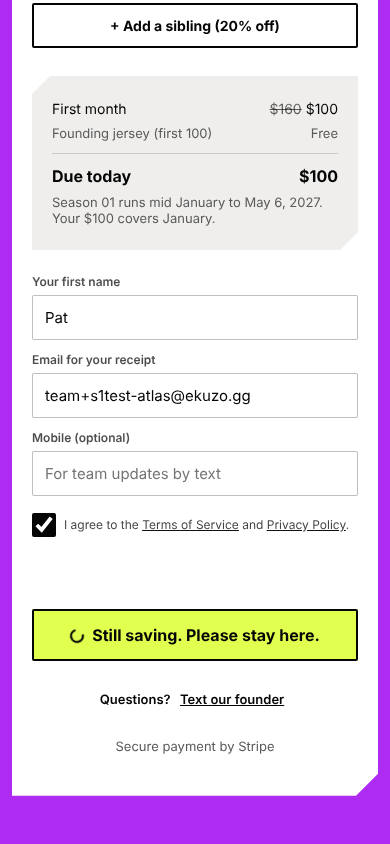
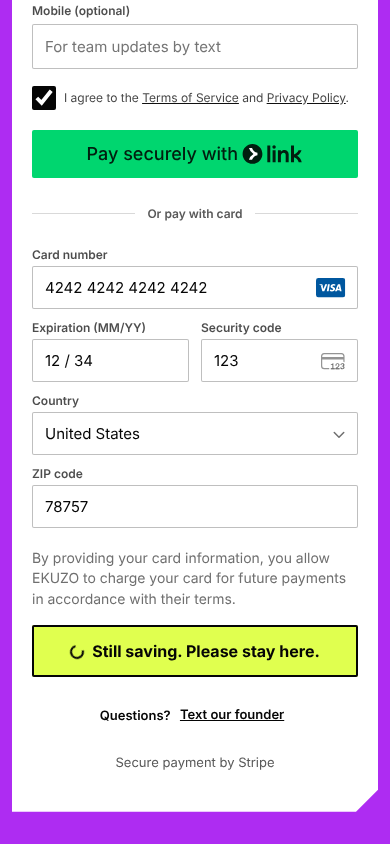
Season 01 analytics: calm in-progress note, honest copy, 3 s hold, age mask
Parent/Steward review (04-parent-steward.md) findings 1, 2, 4, 5:
- In-progress lines render in a stone .note box (#payNote) and are announced
  through the polite #liveErr status region, not the red #formErr alert; the
  button stays busy and disabled until the redirect.
- Copy, one constant each: IN_PROGRESS_MSG "Your payment is on its way.
  Taking you to your confirmation." only on a real 409 in_progress;
  CHECKING_MSG "Checking on your payment. Taking you to your confirmation."
  for the ambiguous case (confirmed flag, then a non-409 failure or network
  error); IN_PROGRESS_OTHER_MSG unchanged.
- WELCOME_HOLD_MS 3000 before location.replace (was 1.5 s).
- data-clarity-mask on the kid age select.
- Tests updated (constants, polite region, 3 s hold, mask, real pay() runs);
  screenshots recaptured with the real Stripe card field and Link row.
test:s1 337/337, tsc 0.

Claude-Session: https://claude.ai/code/session_01Gqf3jkMuwXDmn6TiTtEtBp

diff --git a/lib/season1/__tests__/signupCommit.test.ts b/lib/season1/__tests__/signupCommit.test.ts
@@ -31,10 +31,11 @@ describe("sign-up commit answers (F15, C2)", () => {
     assert.match(payFn, /if\(nx==='retry'\)\{retried=true;await new Promise\(function\(r\)\{setTimeout\(r,1500\)\}\);continue\}/);
     assert.doesNotMatch(payFn.slice(payFn.indexOf("for(;;){"), payFn.indexOf("if(nx==='retry')")), /attemptId=/, "the body keeps its attemptId");
   });
-  it("after confirmPayment was reached on this attempt, any failure goes to the confirmation (never 'not charged')", () => {
+  it("after confirmPayment was reached on this attempt, any other failure checks on it at the confirmation (never 'not charged')", () => {
     for (const [st, e] of [[500, "server"], [503, "try_again"], [429, "rate_limited"], [409, "closed"], [409, "price_changed"], [503, "attempt_busy"], [0, ""]] as const)
-      assert.equal(commitNext(st, e, true, false), "welcome", `${st} ${e}`);
-    assert.match(payFn, /\}catch\(err\)\{\n  if\(wasConfirmed\(\)\)\{toWelcome\(\);return\}/, "network errors too");
+      assert.equal(commitNext(st, e, true, false), "check", `${st} ${e}`);
+    assert.match(payFn, /if\(nx==='welcome'\)\{toWelcome\(IN_PROGRESS_MSG\);return\}\n    if\(nx==='check'\)\{toWelcome\(CHECKING_MSG\);return\}/);
+    assert.match(payFn, /\}catch\(err\)\{\n  if\(wasConfirmed\(\)\)\{toWelcome\(CHECKING_MSG\);return\}/, "network errors too");
   });
   it("without the flag, nothing can have been confirmed: the existing messages stay", () => {
     for (const [st, e] of [[500, "server"], [503, "try_again"], [429, "rate_limited"], [409, "closed"], [409, "duplicate_kid"], [422, ""]] as const)
@@ -53,11 +54,28 @@ describe("sign-up commit answers (F15, C2)", () => {
     const paid = w.slice(w.indexOf("<!--paid-->"), w.indexOf("<!--/paid-->"));
     assert.match(paid, /sessionStorage\.removeItem\('s1_attempt'\)/);
   });
-  it("D5 copy, verbatim: in_progress (then the confirmation after about 1.5 s) and in_progress_other with the text link", () => {
-    assert.ok(html.includes("var IN_PROGRESS_MSG='Your payment is already going through. Taking you to your confirmation to check on it.';"));
-    assert.match(payFn, /function toWelcome\(\)\{pf\(\);announce\(IN_PROGRESS_MSG\);if\(xev\)errEl\.textContent=IN_PROGRESS_MSG;setTimeout\(function\(\)\{location\.replace\('\/season1\/join\/welcome'\)\},1500\)\}/);
-    assert.ok(html.includes("'A payment for this email is already going through. Your receipt will arrive in your inbox when it\\u0027s done. Questions? '"));
-    assert.match(html, /ao\.href=sms;ao\.textContent='Text our founder';fo\.appendChild\(ao\);fo\.appendChild\(document\.createTextNode\('\.'\)\);/);
+  it("copy, one constant each (Parent/Steward 10-30): on its way for a real 409, checking for the ambiguous case", () => {
+    assert.ok(html.includes("var IN_PROGRESS_MSG='Your payment is on its way. Taking you to your confirmation.';"));
+    assert.ok(html.includes("var CHECKING_MSG='Checking on your payment. Taking you to your confirmation.';"));
+    assert.ok(html.includes("var IN_PROGRESS_OTHER_MSG='A payment for this email is already going through. Your receipt will arrive in your inbox when it\\u0027s done. Questions? ';"));
+    for (const old of ["already going through. Taking you", "to check on it"]) assert.ok(!html.includes(old), old);
+    assert.equal((html.match(/Taking you to your confirmation/g) ?? []).length, 2, "each string lives only in its constant");
+    assert.match(html, /if\(e==='in_progress_other'\)\{\n  showNote\(IN_PROGRESS_OTHER_MSG,sms\);\n  return\}/);
+  });
+  it("in-progress lines are a calm status: stone note box, polite status region, never the red alert; 3 s hold, button stays busy", () => {
+    assert.match(html, /<p id="payNote" class="note" hidden><\/p>/);
+    assert.match(html, /\.note\{background:var\(--stone\)/);
+    const note = /function showNote\(msg,link\)\{[^\n]*\}/.exec(html)?.[0] ?? "";
+    assert.match(note, /var n=g\('payNote'\);n\.textContent=msg;/);
+    assert.match(note, /g\('liveErr'\)\.textContent=n\.textContent/);
+    assert.doesNotMatch(note, /announce\(|formErr'\)\.textContent=msg/);
+    assert.match(html, /<div id="liveErr" class="hp" aria-live="polite" role="status"><\/div>/);
+    assert.ok(html.includes("var WELCOME_HOLD_MS=3000;"));
+    assert.match(payFn, /function toWelcome\(msg\)\{pf\(\);showNote\(msg\);setTimeout\(function\(\)\{location\.replace\('\/season1\/join\/welcome'\)\},WELCOME_HOLD_MS\)\}/);
+    assert.doesNotMatch(payFn.slice(payFn.indexOf("function toWelcome"), payFn.indexOf("setBusy(true);confirming=false")), /setBusy\(false\)|fail\(\)/);
+  });
+  it("Clarity masks the kid age select (finding 4)", () => {
+    assert.match(html, /<select class="f ag" id="ag'\+i\+'" data-clarity-mask="true"/);
   });
   it("wallet: paymentFailed runs before any message (once)", () => {
     assert.match(payFn, /function pf\(\)\{if\(xev&&!pfDone\)\{pfDone=true;try\{xev\.paymentFailed\(\{reason:'fail'\}\)\}catch\(_\)\{\}\}\}/);
@@ -110,6 +128,9 @@ describe("sign-up confirmed flag after a Stripe answer (lead 10-30)", () => {
   const helpers = [
     pick(/function commitNext\(st,e,cf,rt\)\{[^\n]*\}/),
     pick(/var IN_PROGRESS_MSG='[^']*';/),
+    pick(/var CHECKING_MSG='[^']*';/),
+    pick(/var WELCOME_HOLD_MS=\d+;/),
+    pick(/function showNote\(msg,link\)\{[^\n]*\}/),
     pick(/function confirmedKey\(\)\{[^\n]*\}/),
     pick(/function wasConfirmed\(\)\{[^\n]*\}/),
     pick(/function keepConfirmed\(r\)\{[^\n]*\}/),
@@ -119,24 +140,26 @@ describe("sign-up confirmed flag after a Stripe answer (lead 10-30)", () => {
   type Res = { ok: boolean; status: number; json: () => Promise<unknown> };
   function harness() {
     const factory = new Function(`
-      var calls={announce:[],replace:[],serverErr:[]},store=new Map();
+      var calls={announce:[],replace:[],serverErr:[],holds:[]},store=new Map();
       var sessionStorage={getItem:function(k){return store.has(k)?store.get(k):null},setItem:function(k,v){store.set(k,String(v))},removeItem:function(k){store.delete(k)}};
       var attemptId='att-12345678',secret=null,secretSig='',confirming=false,inviteRemoved=false,invite=null,IGNORED_MSG='ignored';
       var elements={submit:function(){return Promise.resolve({})}},xel=null,stripe=null,fetchImpl=null,dom={};
-      function g(id){return dom[id]||(dom[id]={textContent:'',innerHTML:'',hidden:false})}
+      function g(id){return dom[id]||(dom[id]={textContent:'',innerHTML:'',hidden:false,appendChild:function(){}})}
+      function clearBusyLine(){} var document={createElement:function(){return {}},createTextNode:function(t){return t}};
       function setBusy(){} function ga(){} function initiateCheckout(){} function showTotal(){} function renderInvite(){} function upd(){}
       function announce(m){calls.announce.push(m)} function totalCents(){return 10000} function money(c){return '$'+c/100}
       function serverErr(st,j){calls.serverErr.push([st,(j&&j.error)||''])}
       var location={origin:'https://ekuzo.gg',replace:function(u){calls.replace.push(u)}},window={location:location};
       var performance={timeOrigin:1,now:function(){return 1}};
-      function setTimeout(fn){fn();return 0}
+      function setTimeout(fn,ms){calls.holds.push(ms);fn();return 0}
       function fetch(u,o){return fetchImpl(u,o)}
       ${helpers}
       ${payFn}
-      return {pay:pay,calls:calls,store:store,set:function(s,f){stripe=s;fetchImpl=f}};`);
+      return {pay:pay,calls:calls,store:store,dom:dom,set:function(s,f){stripe=s;fetchImpl=f}};`);
     return factory() as {
       pay: (body: Record<string, unknown>, xev: null) => Promise<void>;
-      calls: { announce: string[]; replace: string[]; serverErr: [number, string][] };
+      calls: { announce: string[]; replace: string[]; serverErr: [number, string][]; holds: number[] };
+      dom: Record<string, { textContent: string; hidden: boolean }>;
       store: Map<string, string>;
       set: (stripe: unknown, fetch: (u: string) => Promise<Res>) => void;
     };
@@ -163,7 +186,8 @@ describe("sign-up confirmed flag after a Stripe answer (lead 10-30)", () => {
     await h.pay(body("Mia"), null); // changed details: a new commit on the same attempt, answered 429
     assert.deepEqual(h.calls.serverErr, [[429, "rate_limited"]]);
     assert.deepEqual(h.calls.replace, []);
-    assert.ok(!h.calls.announce.some((m) => /already going through/.test(m)));
+    assert.ok(!h.calls.announce.some((m) => /Taking you/.test(m)));
+    assert.equal(h.dom.payNote, undefined, "no in-progress note");
   });
 
   it("decline, then a network error on the re-commit: the existing 'not charged' line, no navigation", async () => {
@@ -185,11 +209,25 @@ describe("sign-up confirmed flag after a Stripe answer (lead 10-30)", () => {
     await h.pay(body("Maya"), null);
     assert.equal(h.store.get(FLAG), "1");
     assert.deepEqual(h.calls.replace, ["/season1/join/welcome"]);
-    assert.equal(h.calls.announce[h.calls.announce.length - 1], "Your payment is already going through. Taking you to your confirmation to check on it.");
+    assert.equal(h.dom.payNote.textContent, "Checking on your payment. Taking you to your confirmation.");
+    assert.equal(h.dom.payNote.hidden, false);
+    assert.equal(h.dom.liveErr.textContent, "Checking on your payment. Taking you to your confirmation.");
+    assert.ok(h.calls.holds.includes(3000), "about 3 s before the confirmation");
     // A later failure on that attempt also goes to the confirmation, never "not charged".
     h.set({ confirmPayment: async () => ({}) }, async () => reply(429, { error: "rate_limited" }));
     await h.pay(body("Mia"), null);
     assert.deepEqual(h.calls.replace, ["/season1/join/welcome", "/season1/join/welcome"]);
     assert.deepEqual(h.calls.serverErr, []);
+  });
+
+  it("a real 409 in_progress: the 'on its way' note, then the confirmation after 3 s", async () => {
+    const h = harness();
+    h.set({ confirmPayment: async () => ({}) }, async () => reply(409, { error: "in_progress" }));
+    await h.pay(body("Maya"), null);
+    assert.equal(h.dom.payNote.textContent, "Your payment is on its way. Taking you to your confirmation.");
+    assert.equal(h.dom.liveErr.textContent, "Your payment is on its way. Taking you to your confirmation.");
+    assert.equal(h.dom.formErr?.textContent ?? "", "", "nothing in the red alert region");
+    assert.deepEqual(h.calls.replace, ["/season1/join/welcome"]);
+    assert.ok(h.calls.holds.includes(3000));
   });
 });

diff --git a/app/season1/join/signup/signup.html b/app/season1/join/signup/signup.html
@@ -218,6 +218,7 @@ p,li,.small{text-wrap:pretty}
 <button class="btn" style="margin-top:16px" id="go" type="submit" data-clarity-mask="true">Save their spot &middot; $100</button>
 </div>
 <p id="inviteNote" class="note" hidden></p>
+<p id="payNote" class="note" hidden></p>
 <div id="formErr" class="err" role="alert" aria-live="assertive" style="margin-top:12px;text-align:center"></div>
 <p class="small" style="text-align:center;margin-top:16px;font-weight:600;color:var(--black)">Questions? <a class="smsLink tk" href="#">Text our founder</a></p>
 <p class="small" style="text-align:center;margin-top:16px">Secure payment by Stripe</p></div>
@@ -259,7 +260,7 @@ try{sessionStorage.setItem('s1_attempt',attemptId)}catch(_){}
 var AGES=[9,10,11,12,13,14,15,16,17];
 function kidRow(){n++;var i=seq++,d=document.createElement('div');d.className='kid';
  var opts='<option value="" selected disabled>Pick age</option>';AGES.forEach(function(a){opts+='<option value="'+a+'">'+a+'</option>'});opts+='<option value="x">Younger or older</option>';
- d.innerHTML='<div class="khead"><p class="ey klabel"></p><button type="button" class="krm">Remove</button></div><div class="grid2" style="margin-top:12px"><div><label class="l" for="nm'+i+'">First name</label><input class="f nm" id="nm'+i+'" maxlength="20" autocomplete="off" aria-required="true" aria-describedby="e-nm'+i+'"></div><div><label class="l" for="ag'+i+'">Age (9 to 17)</label><select class="f ag" id="ag'+i+'" aria-required="true" aria-describedby="e-ag'+i+'">'+opts+'</select></div></div><p class="err e-nm" id="e-nm'+i+'"></p><p class="err e-ag" id="e-ag'+i+'"></p><p class="warn" hidden>Season 01 is built for ages 9 to 17. Our founder will check in to make sure it\u0027s a fit.</p><div class="xnote" hidden><p><b>Season 01 is for ages 9 to 17.</b> Pick another age, or text our founder and we\u0027ll figure it out.</p><div class="xacts"><a class="btn black smsLink" href="'+esc(sms)+'">Text our founder</a>'+'<button type="button" class="btn ghost krm2">Remove this kid and keep going</button><a class="back2" href="/season1/join">Back to Season 01</a></div></div>';
+ d.innerHTML='<div class="khead"><p class="ey klabel"></p><button type="button" class="krm">Remove</button></div><div class="grid2" style="margin-top:12px"><div><label class="l" for="nm'+i+'">First name</label><input class="f nm" id="nm'+i+'" maxlength="20" autocomplete="off" aria-required="true" aria-describedby="e-nm'+i+'"></div><div><label class="l" for="ag'+i+'">Age (9 to 17)</label><select class="f ag" id="ag'+i+'" data-clarity-mask="true" aria-required="true" aria-describedby="e-ag'+i+'">'+opts+'</select></div></div><p class="err e-nm" id="e-nm'+i+'"></p><p class="err e-ag" id="e-ag'+i+'"></p><p class="warn" hidden>Season 01 is built for ages 9 to 17. Our founder will check in to make sure it\u0027s a fit.</p><div class="xnote" hidden><p><b>Season 01 is for ages 9 to 17.</b> Pick another age, or text our founder and we\u0027ll figure it out.</p><div class="xacts"><a class="btn black smsLink" href="'+esc(sms)+'">Text our founder</a>'+'<button type="button" class="btn ghost krm2">Remove this kid and keep going</button><a class="back2" href="/season1/join">Back to Season 01</a></div></div>';
  kids.appendChild(d);d.querySelector('.ag').addEventListener('change',function(){ageChanged(d)});d.querySelector('.nm').addEventListener('input',upd);
  d.querySelectorAll('.krm,.krm2').forEach(function(b){b.addEventListener('click',function(){removeKid(d)})});}
 function removeKid(d){if(rows().length<2)return;d.remove();n=rows().length;ga('season1_sibling_remove');upd();saveForm();var last=rows()[rows().length-1];if(last)last.querySelector('.nm').focus()}
@@ -415,7 +416,7 @@ function initExpress(){
 }
 var NAME=/^\p{L}[\p{L}\p{M} '\u2019-]*$/u,EMAIL=/^[^\s@]+@[^\s@.]+(\.[^\s@.]+)+$/;
 function setErr(el,input,msg){el.textContent=msg;if(input)input.classList.toggle('bad',!!msg);if(input&&msg)input.setAttribute('aria-invalid','true');else if(input)input.removeAttribute('aria-invalid')}
-function clearErrs(){document.querySelectorAll('.err').forEach(function(e){e.textContent=''});document.querySelectorAll('.f').forEach(function(f){f.classList.remove('bad');f.removeAttribute('aria-invalid')});g('terms').removeAttribute('aria-invalid');g('liveErr').textContent=''}
+function clearErrs(){g('payNote').hidden=true;g('payNote').textContent='';document.querySelectorAll('.err').forEach(function(e){e.textContent=''});document.querySelectorAll('.f').forEach(function(f){f.classList.remove('bad');f.removeAttribute('aria-invalid')});g('terms').removeAttribute('aria-invalid');g('liveErr').textContent=''}
 function announce(msg){g('formErr').textContent=msg}
 function collect(){
  var bad=[],first=null;
@@ -457,14 +458,20 @@ function showTotal(c){
    attempt's payment may be going through (409 in_progress, or any failure after this attempt reached
    confirmPayment), so show the in-progress line and go to the confirmation. retry: the double-tap race
    (503 attempt_busy), once, same attempt. error: serverErr below. */
-function commitNext(st,e,cf,rt){if(e==='in_progress')return 'welcome';if(e==='in_progress_other')return 'error';if(cf)return 'welcome';if(st===503&&e==='attempt_busy'&&!rt)return 'retry';return 'error'}
-var IN_PROGRESS_MSG='Your payment is already going through. Taking you to your confirmation to check on it.';
+function commitNext(st,e,cf,rt){if(e==='in_progress')return 'welcome';if(e==='in_progress_other')return 'error';if(cf)return 'check';if(st===503&&e==='attempt_busy'&&!rt)return 'retry';return 'error'}
+/* Parent/Steward review 10-30 (findings 1, 2, 6): the in-progress lines are a calm status (stone note box, polite
+   status region), never the red alert. A real 409 in_progress says the payment is on its way; the ambiguous case
+   (this attempt reached confirm, then a non-409 failure or a network error) only says we are checking. */
+var IN_PROGRESS_MSG='Your payment is on its way. Taking you to your confirmation.';
+var CHECKING_MSG='Checking on your payment. Taking you to your confirmation.';
+var IN_PROGRESS_OTHER_MSG='A payment for this email is already going through. Your receipt will arrive in your inbox when it\u0027s done. Questions? ';
+var WELCOME_HOLD_MS=3000;
+/* Shows a neutral status in the stone note box and announces it once in the polite status region. Optional link. */
+function showNote(msg,link){clearBusyLine();var n=g('payNote');n.textContent=msg;if(link){var a=document.createElement('a');a.href=link;a.textContent='Text our founder';n.appendChild(a);n.appendChild(document.createTextNode('.'))}n.hidden=false;g('formErr').textContent='';g('liveErr').textContent=n.textContent}
 function serverErr(status,j){
  var f=(j&&j.field)||'',e=(j&&j.error)||'',m;
  if(e==='in_progress_other'){
-  var fo=g('formErr');fo.textContent='';
-  fo.appendChild(document.createTextNode('A payment for this email is already going through. Your receipt will arrive in your inbox when it\u0027s done. Questions? '));
-  var ao=document.createElement('a');ao.href=sms;ao.textContent='Text our founder';fo.appendChild(ao);fo.appendChild(document.createTextNode('.'));
+  showNote(IN_PROGRESS_OTHER_MSG,sms);
   return}
  if(e==='price_changed'&&j&&typeof j.amountCents==='number'){showTotal(j.amountCents);secret=null;announce('Your total changed to '+money(j.amountCents)+'. Tap again to pay.');return}
  if(e==='duplicate_kid'||e==='text_karlin'){
@@ -520,7 +527,8 @@ async function pay(body,xev){
  function pf(){if(xev&&!pfDone){pfDone=true;try{xev.paymentFailed({reason:'fail'})}catch(_){}}}
  function fail(){pf();if(xev&&!errEl.textContent)errEl.innerHTML=g('formErr').innerHTML;setBusy(false)}
  // F15 (C2, D5 string 2): the payment may be going through. Keep the button busy, show the line, then the confirmation.
- function toWelcome(){pf();announce(IN_PROGRESS_MSG);if(xev)errEl.textContent=IN_PROGRESS_MSG;setTimeout(function(){location.replace('/season1/join/welcome')},1500)}
+ // F15: the button stays busy and disabled; the note holds about 3 s, then the confirmation page.
+ function toWelcome(msg){pf();showNote(msg);setTimeout(function(){location.replace('/season1/join/welcome')},WELCOME_HOLD_MS)}
  setBusy(true);confirming=false;ga('season1_pay_submit',{method:xev?String(xev.expressPaymentType||'wallet'):'card'});
  initiateCheckout();
  // S8: tap time for welcome's season1_tap_to_welcome.
@@ -539,7 +547,8 @@ async function pay(body,xev){
     if(res.ok&&j&&j.clientSecret)break;
     var nx=commitNext(res.status,(j&&j.error)||'',wasConfirmed(),retried);
     if(nx==='retry'){retried=true;await new Promise(function(r){setTimeout(r,1500)});continue}
-    if(nx==='welcome'){toWelcome();return}
+    if(nx==='welcome'){toWelcome(IN_PROGRESS_MSG);return}
+    if(nx==='check'){toWelcome(CHECKING_MSG);return}
     pf();serverErr(res.status,j);fail();return
    }
    if(typeof j.amountCents==='number'&&j.amountCents!==totalCents()){
@@ -557,7 +566,7 @@ async function pay(body,xev){
   if(!keepConfirmed(r)){try{sessionStorage.removeItem(confirmedKey())}catch(_){}}
   if(r&&r.error){pf();var msg=r.error.message||'The payment did not go through. Try again or use another card.';errEl.textContent=msg;announce(msg);fail()}
  }catch(err){
-  if(wasConfirmed()){toWelcome();return}
+  if(wasConfirmed()){toWelcome(CHECKING_MSG);return}
   pf();announce(confirming?'We could not confirm your payment. Text our founder before you try again.':'Something hiccuped. Your card was not charged. Try again in a minute or text our founder.');fail()}
 }
 /* Speed pass 10-29: wake the commit API and its database while the parent fills the form (no data, no cookies,

diff --git a/docs/season1-commit/analytics/evidence/atlas-frontend.md b/docs/season1-commit/analytics/evidence/atlas-frontend.md
@@ -130,7 +130,30 @@ On a local build (context empty), `/` and `/parents` serve no vendor tag. `/seas
   - a span around the kid name in the `duplicate_kid` message.
 - Typed inputs are masked by Clarity already.
 
-## Copy (D5, word for word from 03-copy-deck.md)
+## Round 2: Parent and Steward review (04-parent-steward.md findings 1, 2, 4, 5; lead 10-30)
+
+- **Finding 1, calm status instead of an error.** The in-progress lines are no longer in the red `#formErr` alert.
+  - They render in a new `<p id="payNote" class="note" hidden>`: the page's existing stone note box, ink text `rgb(51,51,51)` on `rgb(239,238,237)`.
+  - The box sits outside the card section, so it shows on the wallet path too.
+  - They are announced once through the polite `#liveErr` status region, via `showNote(msg, link)`.
+  - The busy line's timer is stopped first, so the two never fight.
+  - On a redirect the button stays busy and disabled (checked in the browser: `disabled`, `aria-busy=true`).
+  - `in_progress_other` uses the same box with its text link, and the button is released there as before.
+  - `clearErrs()` hides the box on the next tap.
+- **Finding 2, copy.** One constant each:
+  - `IN_PROGRESS_MSG` "Your payment is on its way. Taking you to your confirmation." This is shown only on a real 409 `in_progress`.
+  - `CHECKING_MSG` "Checking on your payment. Taking you to your confirmation." This is the ambiguous case: the confirmed flag is set, then a non-409 failure or a network error. `commitNext` now returns `check` for it.
+  - `IN_PROGRESS_OTHER_MSG` is unchanged.
+- **Finding 5, hold.** `WELCOME_HOLD_MS=3000` before `location.replace`. The browser measured about 3.0 s from note to navigation.
+- **Finding 4, age mask.** The kid age `<select class="f ag">` carries `data-clarity-mask="true"`.
+  - No other sign-up element echoes a kid's age; the summary and the button show names only.
+  - Welcome prints no age.
+- **Screenshots recaptured** with real Stripe.js (test key, through the agent proxy), so the payment area is in frame: the Link row, "Or pay with card", and the filled card field.
+  - The commit was mocked: 409 `in_progress` after 3.5 s.
+  - While busy, the card field still looks editable (Stripe draws it in its own frame) and the Link button stays visible and tappable-looking. The page ignores a wallet tap while busy (`xp.on('click')` returns), so a second payment cannot start from it, but the area does not look frozen. Whether to dim it is a design call for Aaron.
+  - Console: only the mocked 409.
+
+## Copy (round 1; strings 2 and 3 superseded in round 2 above, string 1 unchanged)
 
 1. Busy label after 2 s: `Still saving. Please stay here.`
 2. `in_progress`: `Your payment is already going through. Taking you to your confirmation to check on it.` Then about 1.5 s, then the welcome page.
@@ -140,7 +163,7 @@ On a local build (context empty), `/` and `/parents` serve no vendor tag. `/seas
 
 | Run | Result |
 |---|---|
-| `npm run test:s1` | **334 / 334 pass** (was 274). New: `tags.test.ts` 40, `signupCommit.test.ts` 17, `welcomeStates.test.ts` +3 |
+| `npm run test:s1` | **337 / 337 pass** (was 274). New: `tags.test.ts` 40, `signupCommit.test.ts` 20, `welcomeStates.test.ts` +3 |
 | `S1_DB_TESTS=1 node --env-file=.env.test.local scripts/run-tests.mjs lib/season1/__tests__` (J10) | **373 / 373 pass**, 81 suites, 0 fail, 0 skipped, 91 s (was 317). This run predates the lead fix; the fix adds 4 pure client tests and touches no server code. |
 | `npm test` (all lib) | 431 pass, 1 skipped (pre-existing), 0 fail |
 | `npx tsc --noEmit` | exit 0 |
@@ -215,14 +238,14 @@ On a local build (context empty), `/` and `/parents` serve no vendor tag. `/seas
   - the 409 from the mocked commit;
   - 404s for the torn-paper images (`public/images/new torn paper/*@2x.png`) on join and crew. Local `next start` does not serve those paths. ekuzo.gg and the branch deploy both answer 200 for them, and the problem is unchanged by this build.
 
-**Screenshots:**
-- `evidence/atlas/signup-busy-390.png`, `signup-busy-1440.png`: the busy line;
-- `evidence/atlas/signup-in-progress-390.png`, `signup-in-progress-1440.png`: string 2 under the busy button.
+**Screenshots** (recaptured in round 2, with the payment area in frame):
+- `evidence/atlas/signup-busy-390.png`, `signup-busy-1440.png`: the busy line above the filled card field and Link row;
+- `evidence/atlas/signup-in-progress-390.png`, `signup-in-progress-1440.png`: the "on its way" note in the stone box under the busy button.
 
 ## Not proven here, and open
 
 1. **Branch-deploy network proof is Sentry's** (C18: R2 to R5, R7, R12, R18). That means real `/g/collect` (`_dbg=1`), `facebook.com/tr` (`ev=Purchase&eid=<order>`, `S1QA_*`, and no `SubscribedButtonClick` / `cd[buttonText]` / `ud[`), and `clarity.ms/collect` on `season1-commit--ekuzo.netlify.app` with and without `?s1qa=1`. It also includes the 3DS referrer check and a paid welcome in a real browser. Here the vendor scripts were intercepted and the paid-state Purchase was proven in a vm.
-2. **Styling of the in-progress line (for Aaron).** It renders in `#formErr`, which is red error text with `role=alert`. A neutral style may read better for "your payment is going through". This is a design call.
+2. **Resolved in round 2: styling of the in-progress line.** It is now the stone note box. Previous text: It renders in `#formErr`, which is red error text with `role=alert`. A neutral style may read better for "your payment is going through". This is a design call.
 3. **Resolved (lead 10-30).** The confirmed flag is now cleared when Stripe answers a confirm with an error (see section 6).
    - The welcome failed state's "Try again" still keeps the same attempt, because only the paid state clears it. The lead accepted this.
 4. **Thanks GA4 `page_location`** now follows S2, so it drops `play`. The `season1_play_answer` event still carries `play`. Before, GA saw the full URL.

diff --git a/WORKLOG.md b/WORKLOG.md
@@ -21,10 +21,17 @@ Branch `season1-commit` (Atlas). This is the client half of the analytics slice.
   - Lead fix: a confirm that Stripe answers with an error (a decline) clears the confirmed flag, so a later 429 or price change on that attempt shows its normal message. A confirm that throws keeps the flag and goes to welcome.
 - **Welcome:** Pixel Purchase (eventID = order id, once per order) and the `season1_tap_to_welcome` timing.
 - **Tests:**
-  - `npm run test:s1`: 334 of 334 (was 274).
+  - `npm run test:s1`: 334 of 334 (was 274); 337 after round 2.
   - Integration (J10 method): 373 of 373 (was 317).
   - tsc 0, `next build` OK.
   - Browser run at 390 and 1440 on the built app.
+
+- **Round 2** (Parent/Steward review, findings 1, 2, 4 and 5):
+  - The in-progress lines now show in a calm stone note box (`#payNote`), announced in the polite status region, instead of the red alert.
+  - New copy, one constant each: "Your payment is on its way. Taking you to your confirmation." on a real 409 `in_progress`; "Checking on your payment. Taking you to your confirmation." when the outcome is unclear.
+  - The hold before the confirmation page is now 3 s.
+  - The kid age select is masked in Clarity.
+  - `npm run test:s1`: 337 of 337.
 
 **For Aaron, every template and copy line touched:**
 
@@ -32,7 +39,8 @@ Branch `season1-commit` (Atlas). This is the client half of the analytics slice.
   - `join.html`: kid/from strip changed to `{{URL_ALLOW}}`; gtag block changed to `{{TAGS}}`.
   - `signup.html`:
     - `{{URL_ALLOW}}` and `{{TAGS}}`, same as join.
-    - `data-clarity-mask="true"` on `#invTxt`, `#sum` and `#go`, plus a masked span around the kid name in the duplicate_kid message.
+    - `data-clarity-mask="true"` on `#invTxt`, `#sum`, `#go` and the kid age select (`.ag`), plus a masked span around the kid name in the duplicate_kid message.
+    - New `<p id="payNote" class="note" hidden>` under the invite note, for the in-progress lines (round 2).
     - Client script: attempt reuse, setBusy/busy line, `commitNext`, `keepConfirmed`, `serverErr` (new in_progress_other branch), `pay()`, `initiateCheckout()`, pageshow.
   - `welcome.html`:
     - gtag block changed to `{{URL_ALLOW}}` and `{{TAGS}}`.
@@ -43,10 +51,10 @@ Branch `season1-commit` (Atlas). This is the client half of the analytics slice.
   - `landing.html`: the Pixel, noscript, Clarity and GA4 head blocks changed to one comment plus `{{TAGS}}`; the `LIVE` regex drops `netlify\.app$`; one comment reworded.
 - **New copy** (D5, recommended strings, sign-up only):
   - Busy label after 2 s: "Still saving. Please stay here."
-  - "Your payment is already going through. Taking you to your confirmation to check on it."
+  - Superseded in round 2: "Your payment is on its way. Taking you to your confirmation." (real 409) and "Checking on your payment. Taking you to your confirmation." (unclear outcome).
   - "A payment for this email is already going through. Your receipt will arrive in your inbox when it's done. Questions? Text our founder."
   - No other visible copy changed.
-- **Your call:** the in-progress line uses the red `#formErr` error style. A neutral style may read better.
+- **Your call:** the in-progress lines now use the stone `.note` box. While busy, the card field and Link row still look live; tell us if you want them dimmed.
 
 ## Jamie's Claude, 2026-10-30: analytics build, server side
 
